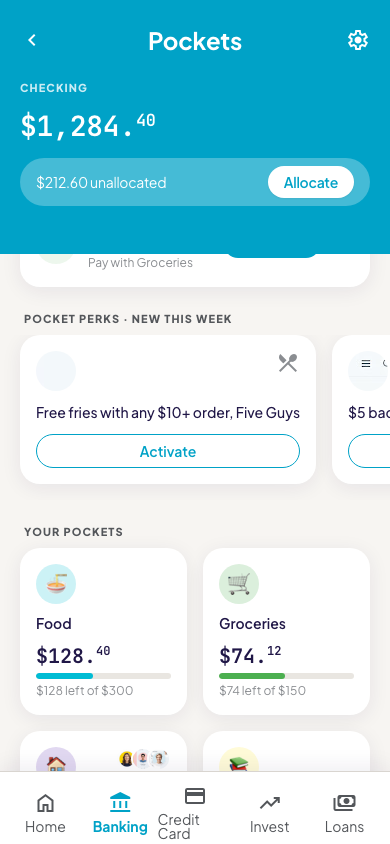
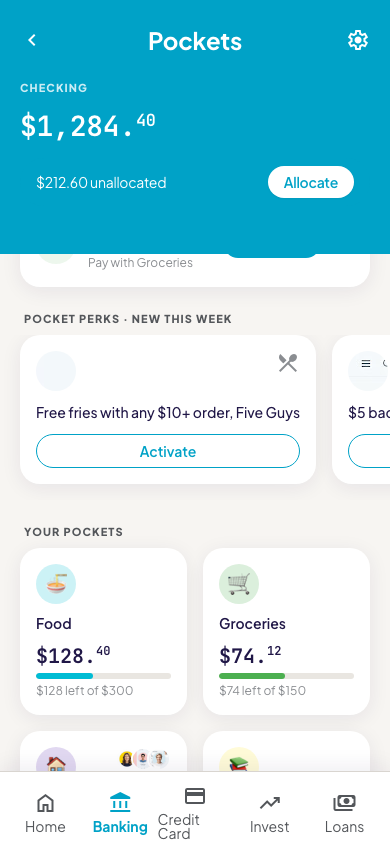
Keep primary-container saturated so light-on-fill pairings stay legible
The generated markup uses primary-container as a strong fill with light content
on top (bg-primary-container + text-surface-container-lowest, and
text-primary-container on white buttons). Recolouring it to a pale tint inverted
those pairings and left screen 02's header, action buttons, and card art
pale-on-pale. It stays brand cyan; only the darker Material-derived primary
(#006780) needed replacing.

Changed region(s): [[0.0308, 0.1848, 0.9538, 0.2464]]

diff --git a/docs/screens/15-pockets-home-alt.html b/docs/screens/15-pockets-home-alt.html
@@ -56,9 +56,9 @@
                         "primary-fixed": "#CFEFF8",
                         "inverse-primary": "#7FD9EF",
                         "on-tertiary": "#ffffff",
-                        "on-primary-container": "#00485A",
+                        "on-primary-container": "#FFFFFF",
                         "surface-container-low": "#FBFAF8",
-                        "primary-container": "#E3F4FA",
+                        "primary-container": "#00A2C7",
                         "surface-container": "#F2F0EC",
                         "primary-fixed-dim": "#7FD9EF",
                         "page-body": "#F7F5F2",

diff --git a/docs/screens/02-food-pocket-detail.html b/docs/screens/02-food-pocket-detail.html
@@ -62,9 +62,9 @@
                         "primary-fixed": "#CFEFF8",
                         "inverse-primary": "#7FD9EF",
                         "on-tertiary": "#ffffff",
-                        "on-primary-container": "#00485A",
+                        "on-primary-container": "#FFFFFF",
                         "surface-container-low": "#FBFAF8",
-                        "primary-container": "#E3F4FA",
+                        "primary-container": "#00A2C7",
                         "surface-container": "#F2F0EC",
                         "primary-fixed-dim": "#7FD9EF"
                     },

diff --git a/docs/screens/03-transit-low-balance.html b/docs/screens/03-transit-low-balance.html
@@ -37,8 +37,8 @@
                         "secondary-container": "#E5E1E6",
                         "surface-container-highest": "#E5E1E6",
                         "inverse-on-surface": "#F7F5F2",
-                        "primary-container": "#E3F4FA",
-                        "on-primary-container": "#00485A",
+                        "primary-container": "#00A2C7",
+                        "on-primary-container": "#FFFFFF",
                         "secondary-fixed": "#E5E1E6",
                         "surface-container-high": "#ECE9E4",
                         "surface-variant": "#E9E6E1",

diff --git a/docs/screens/06-invite-friends.html b/docs/screens/06-invite-friends.html
@@ -35,8 +35,8 @@
                         "secondary-container": "#E5E1E6",
                         "surface-container-highest": "#E5E1E6",
                         "inverse-on-surface": "#F7F5F2",
-                        "primary-container": "#E3F4FA",
-                        "on-primary-container": "#00485A",
+                        "primary-container": "#00A2C7",
+                        "on-primary-container": "#FFFFFF",
                         "secondary-fixed": "#E5E1E6",
                         "surface-container-high": "#ECE9E4",
                         "surface-variant": "#E9E6E1",

diff --git a/docs/screens/09-lock-screen-notif.html b/docs/screens/09-lock-screen-notif.html
@@ -35,8 +35,8 @@
                         "secondary-container": "#E5E1E6",
                         "surface-container-highest": "#E5E1E6",
                         "inverse-on-surface": "#F7F5F2",
-                        "primary-container": "#E3F4FA",
-                        "on-primary-container": "#00485A",
+                        "primary-container": "#00A2C7",
+                        "on-primary-container": "#FFFFFF",
                         "secondary-fixed": "#E5E1E6",
                         "surface-container-high": "#ECE9E4",
                         "surface-variant": "#E9E6E1",

diff --git a/docs/screens/01-pockets-home.html b/docs/screens/01-pockets-home.html
@@ -35,8 +35,8 @@
                       "secondary-container": "#E5E1E6",
                       "surface-container-highest": "#E5E1E6",
                       "inverse-on-surface": "#F7F5F2",
-                      "primary-container": "#E3F4FA",
-                      "on-primary-container": "#00485A",
+                      "primary-container": "#00A2C7",
+                      "on-primary-container": "#FFFFFF",
                       "secondary-fixed": "#E5E1E6",
                       "surface-container-high": "#ECE9E4",
                       "surface-variant": "#E9E6E1",

diff --git a/docs/screens/04-create-a-pocket.html b/docs/screens/04-create-a-pocket.html
@@ -35,8 +35,8 @@
                       "secondary-container": "#E5E1E6",
                       "surface-container-highest": "#E5E1E6",
                       "inverse-on-surface": "#F7F5F2",
-                      "primary-container": "#E3F4FA",
-                      "on-primary-container": "#00485A",
+                      "primary-container": "#00A2C7",
+                      "on-primary-container": "#FFFFFF",
                       "secondary-fixed": "#E5E1E6",
                       "surface-container-high": "#ECE9E4",
                       "surface-variant": "#E9E6E1",

diff --git a/docs/screens/05-rent-shared-pocket.html b/docs/screens/05-rent-shared-pocket.html
@@ -35,8 +35,8 @@
                       "secondary-container": "#E5E1E6",
                       "surface-container-highest": "#E5E1E6",
                       "inverse-on-surface": "#F7F5F2",
-                      "primary-container": "#E3F4FA",
-                      "on-primary-container": "#00485A",
+                      "primary-container": "#00A2C7",
+                      "on-primary-container": "#FFFFFF",
                       "secondary-fixed": "#E5E1E6",
                       "surface-container-high": "#ECE9E4",
                       "surface-variant": "#E9E6E1",

diff --git a/docs/screens/07-invite-received.html b/docs/screens/07-invite-received.html
@@ -35,8 +35,8 @@
                       "secondary-container": "#E5E1E6",
                       "surface-container-highest": "#E5E1E6",
                       "inverse-on-surface": "#F7F5F2",
-                      "primary-container": "#E3F4FA",
-                      "on-primary-container": "#00485A",
+                      "primary-container": "#00A2C7",
+                      "on-primary-container": "#FFFFFF",
                       "secondary-fixed": "#E5E1E6",
                       "surface-container-high": "#ECE9E4",
                       "surface-variant": "#E9E6E1",

diff --git a/docs/screens/08-card-details-wallet.html b/docs/screens/08-card-details-wallet.html
@@ -35,8 +35,8 @@
                       "secondary-container": "#E5E1E6",
                       "surface-container-highest": "#E5E1E6",
                       "inverse-on-surface": "#F7F5F2",
-                      "primary-container": "#E3F4FA",
-                      "on-primary-container": "#00485A",
+                      "primary-container": "#00A2C7",
+                      "on-primary-container": "#FFFFFF",
                       "secondary-fixed": "#E5E1E6",
                       "surface-container-high": "#ECE9E4",
                       "surface-variant": "#E9E6E1",

diff --git a/docs/screens/10-transaction-reroute.html b/docs/screens/10-transaction-reroute.html
@@ -41,8 +41,8 @@
                       "secondary-container": "#E5E1E6",
                       "surface-container-highest": "#E5E1E6",
                       "inverse-on-surface": "#F7F5F2",
-                      "primary-container": "#E3F4FA",
-                      "on-primary-container": "#00485A",
+                      "primary-container": "#00A2C7",
+                      "on-primary-container": "#FFFFFF",
                       "secondary-fixed": "#E5E1E6",
                       "surface-container-high": "#ECE9E4",
                       "surface-variant": "#E9E6E1",

diff --git a/docs/screens/11-pocket-perks.html b/docs/screens/11-pocket-perks.html
@@ -35,8 +35,8 @@
                       "secondary-container": "#E5E1E6",
                       "surface-container-highest": "#E5E1E6",
                       "inverse-on-surface": "#F7F5F2",
-                      "primary-container": "#E3F4FA",
-                      "on-primary-container": "#00485A",
+                      "primary-container": "#00A2C7",
+                      "on-primary-container": "#FFFFFF",
                       "secondary-fixed": "#E5E1E6",
                       "surface-container-high": "#ECE9E4",
                       "surface-variant": "#E9E6E1",
